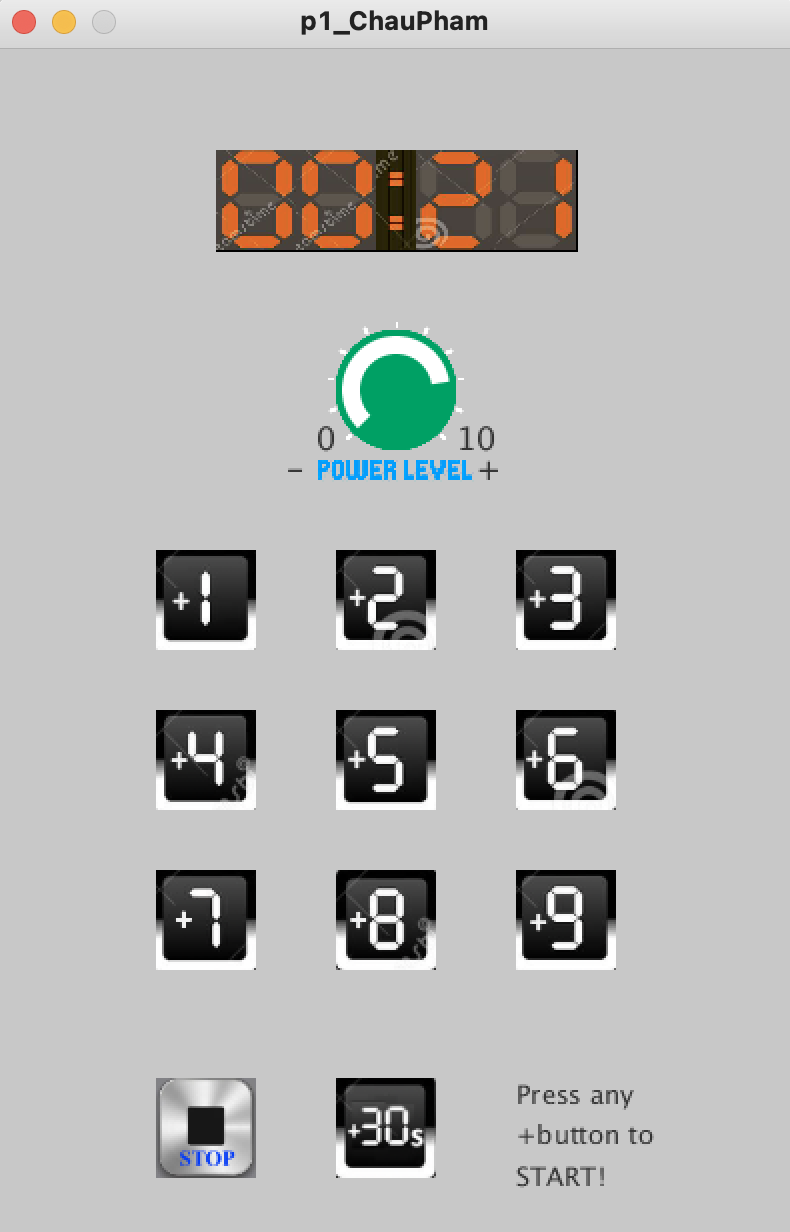
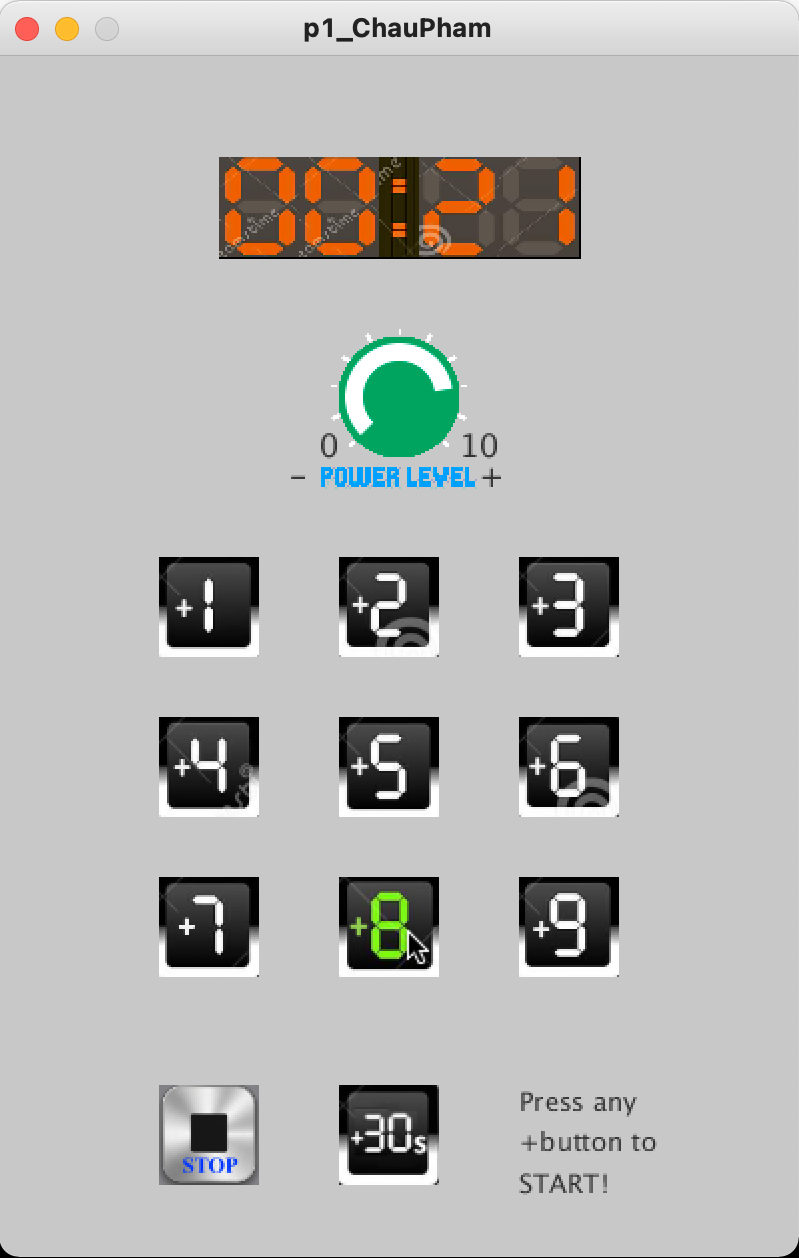
Done ver1.3. Add sound and visual effects

diff --git a/README.md b/README.md
@@ -2,17 +2,23 @@
 Design a user-friendly interface for microwaves with [Processing](https://processing.org/)
 ---
 - My sketch
+
 <img src="https://raw.githubusercontent.com/chaupmcs/p1.ChauPham/main/sketch.jpg" width="500" height="600">
 
-- Demo (ver 1.2)
-	<img src="https://raw.githubusercontent.com/chaupmcs/p1.ChauPham/main/demo.png" width="400" height="600">
+<br/>
+<br/>
+
+- Demo (ver 1.3)
+
+<img src="https://raw.githubusercontent.com/chaupmcs/p1.ChauPham/main/demo.png" width="400" height="600">
 
 
 - Ver 1.0. Set up the project
 - Ver 1.1. Done the UI
 - Ver 1.2. Change the screen digits when pressing the button
+- Ver 1.3: Add Sound/visual effects
 
-- **Todo** Ver 1.3: Add Sound/visual effects
+- **TODO**: Add the report
 
 
 
